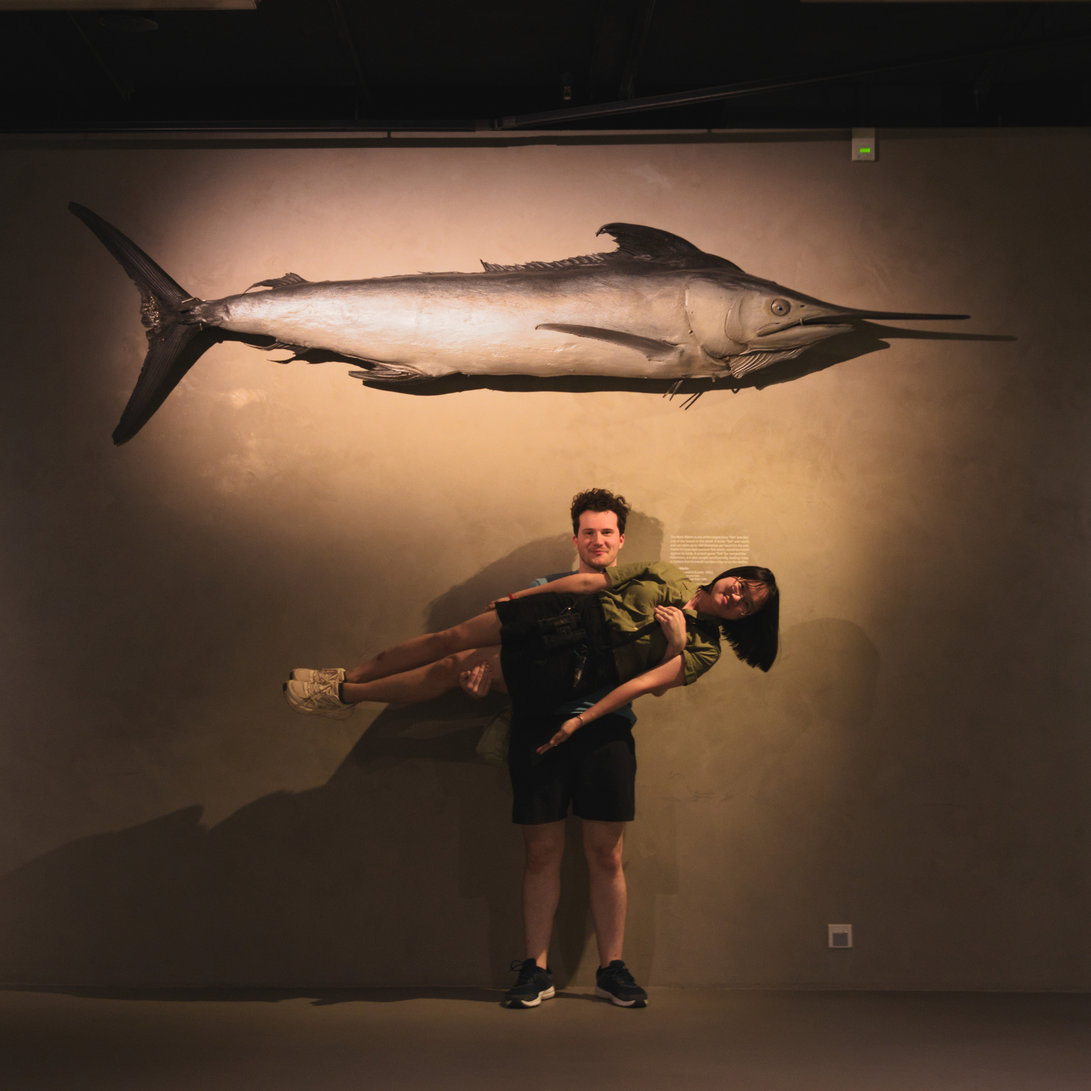
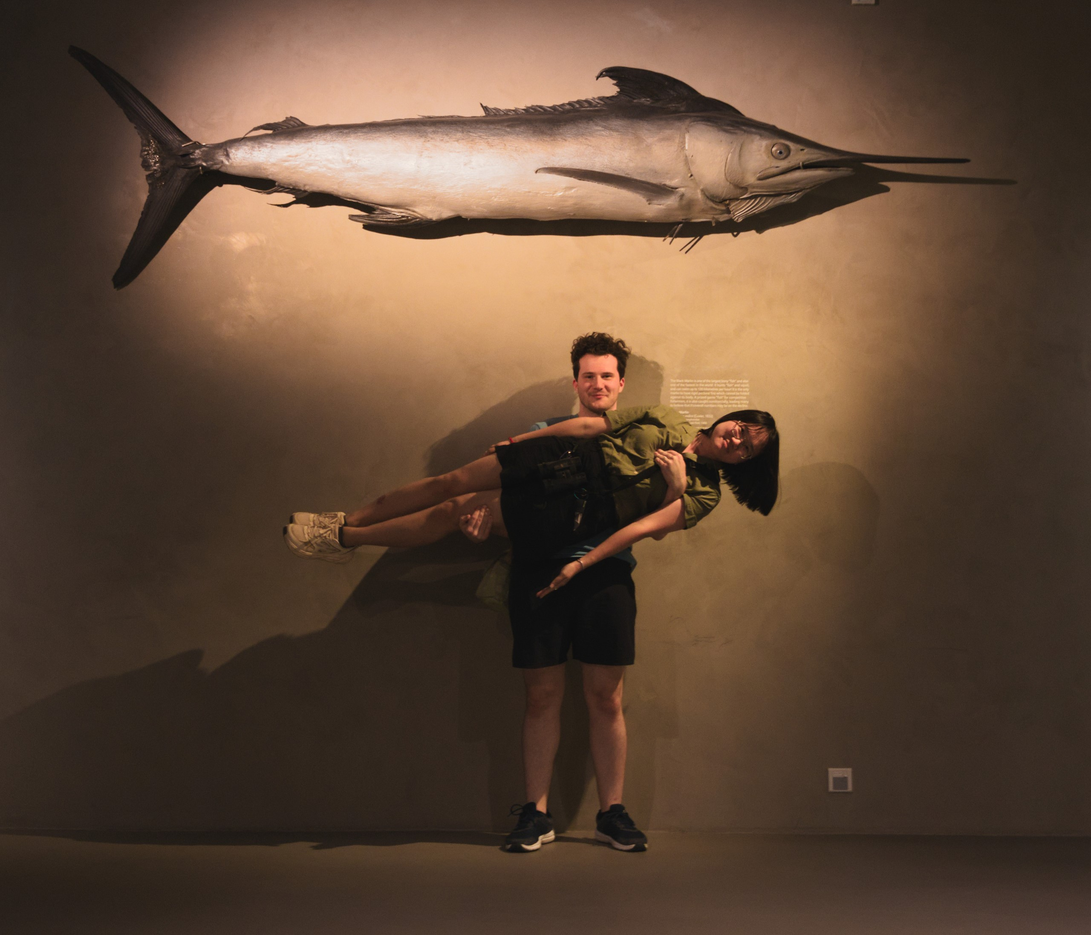
Fix dynamic layout

diff --git a/css/main.css b/css/main.css
@@ -6,7 +6,7 @@ body {
 .ww-home-page {
   background: url("../images/home-img.jpeg") no-repeat center center;
   background-size: cover;
-  background-position: 50%;
+  background-position: 25% 25%;
   object-fit: contain;
   max-width: 100%;
   height: 100vh;
@@ -149,7 +149,7 @@ body {
 
 /* Footer Style */
 .ww-footer a.credit {
-  font-family: "Garamond", serif;
+  font-family: "Cormorant", serif;
   color: inherit;
   border-bottom: 1px dashed;
   text-decoration: none;
